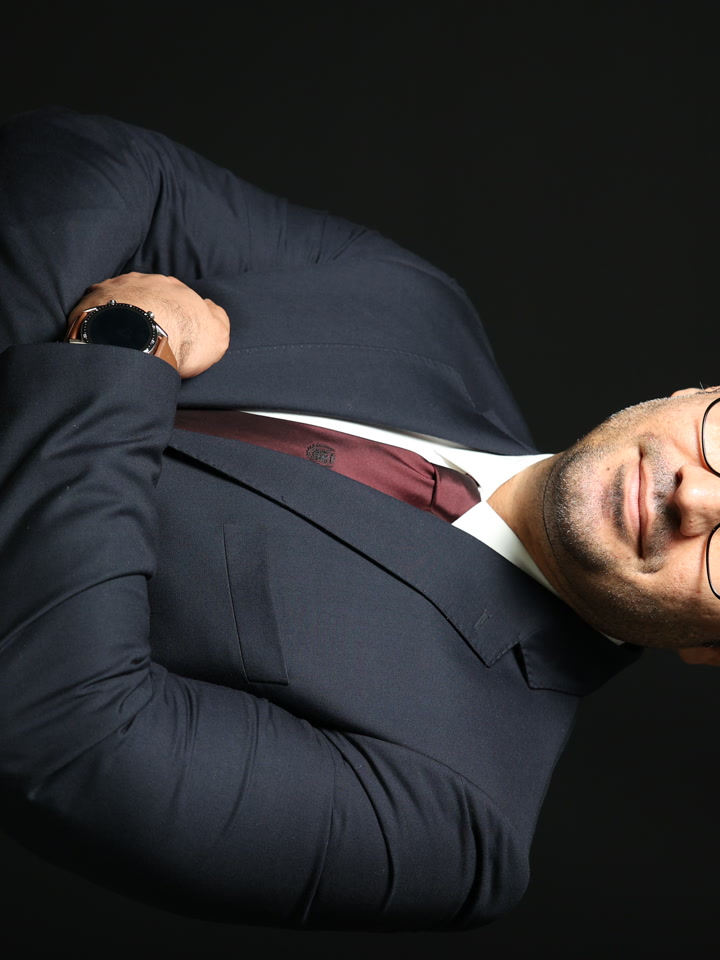
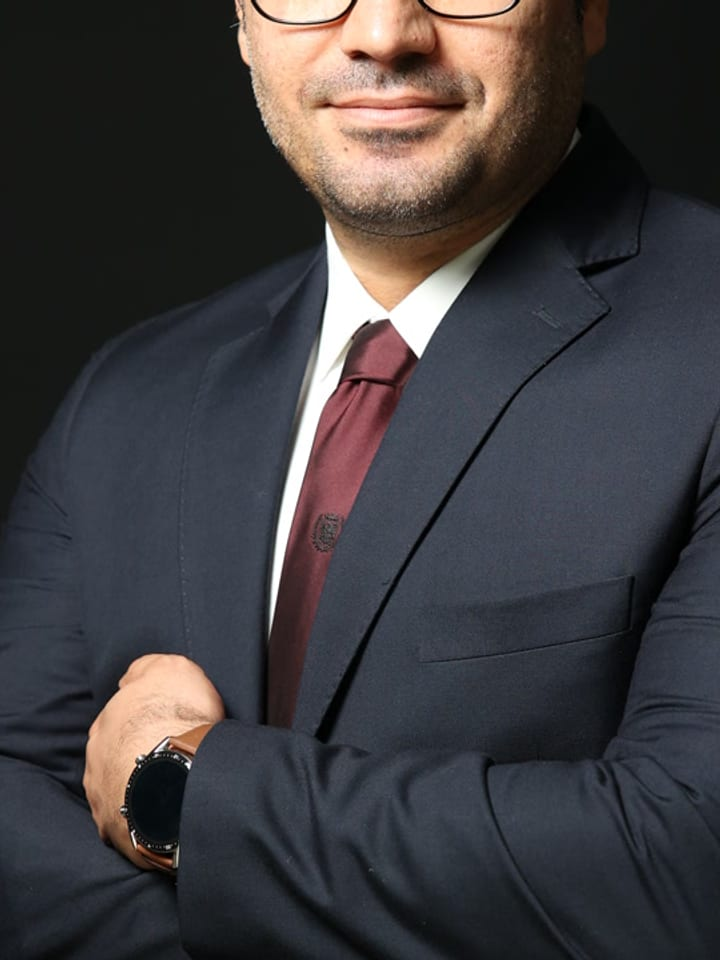
fix: Rotate portrait upright

diff --git a/src/components/about.tsx b/src/components/about.tsx
@@ -30,7 +30,7 @@ export function About() {
               src="/portrait.jpg"
               alt="Mahmood Asadi"
               fill
-              className="object-cover object-[center_70%]"
+              className="object-cover object-top"
               sizes="(max-width: 640px) 280px, 360px"
               priority
             />
